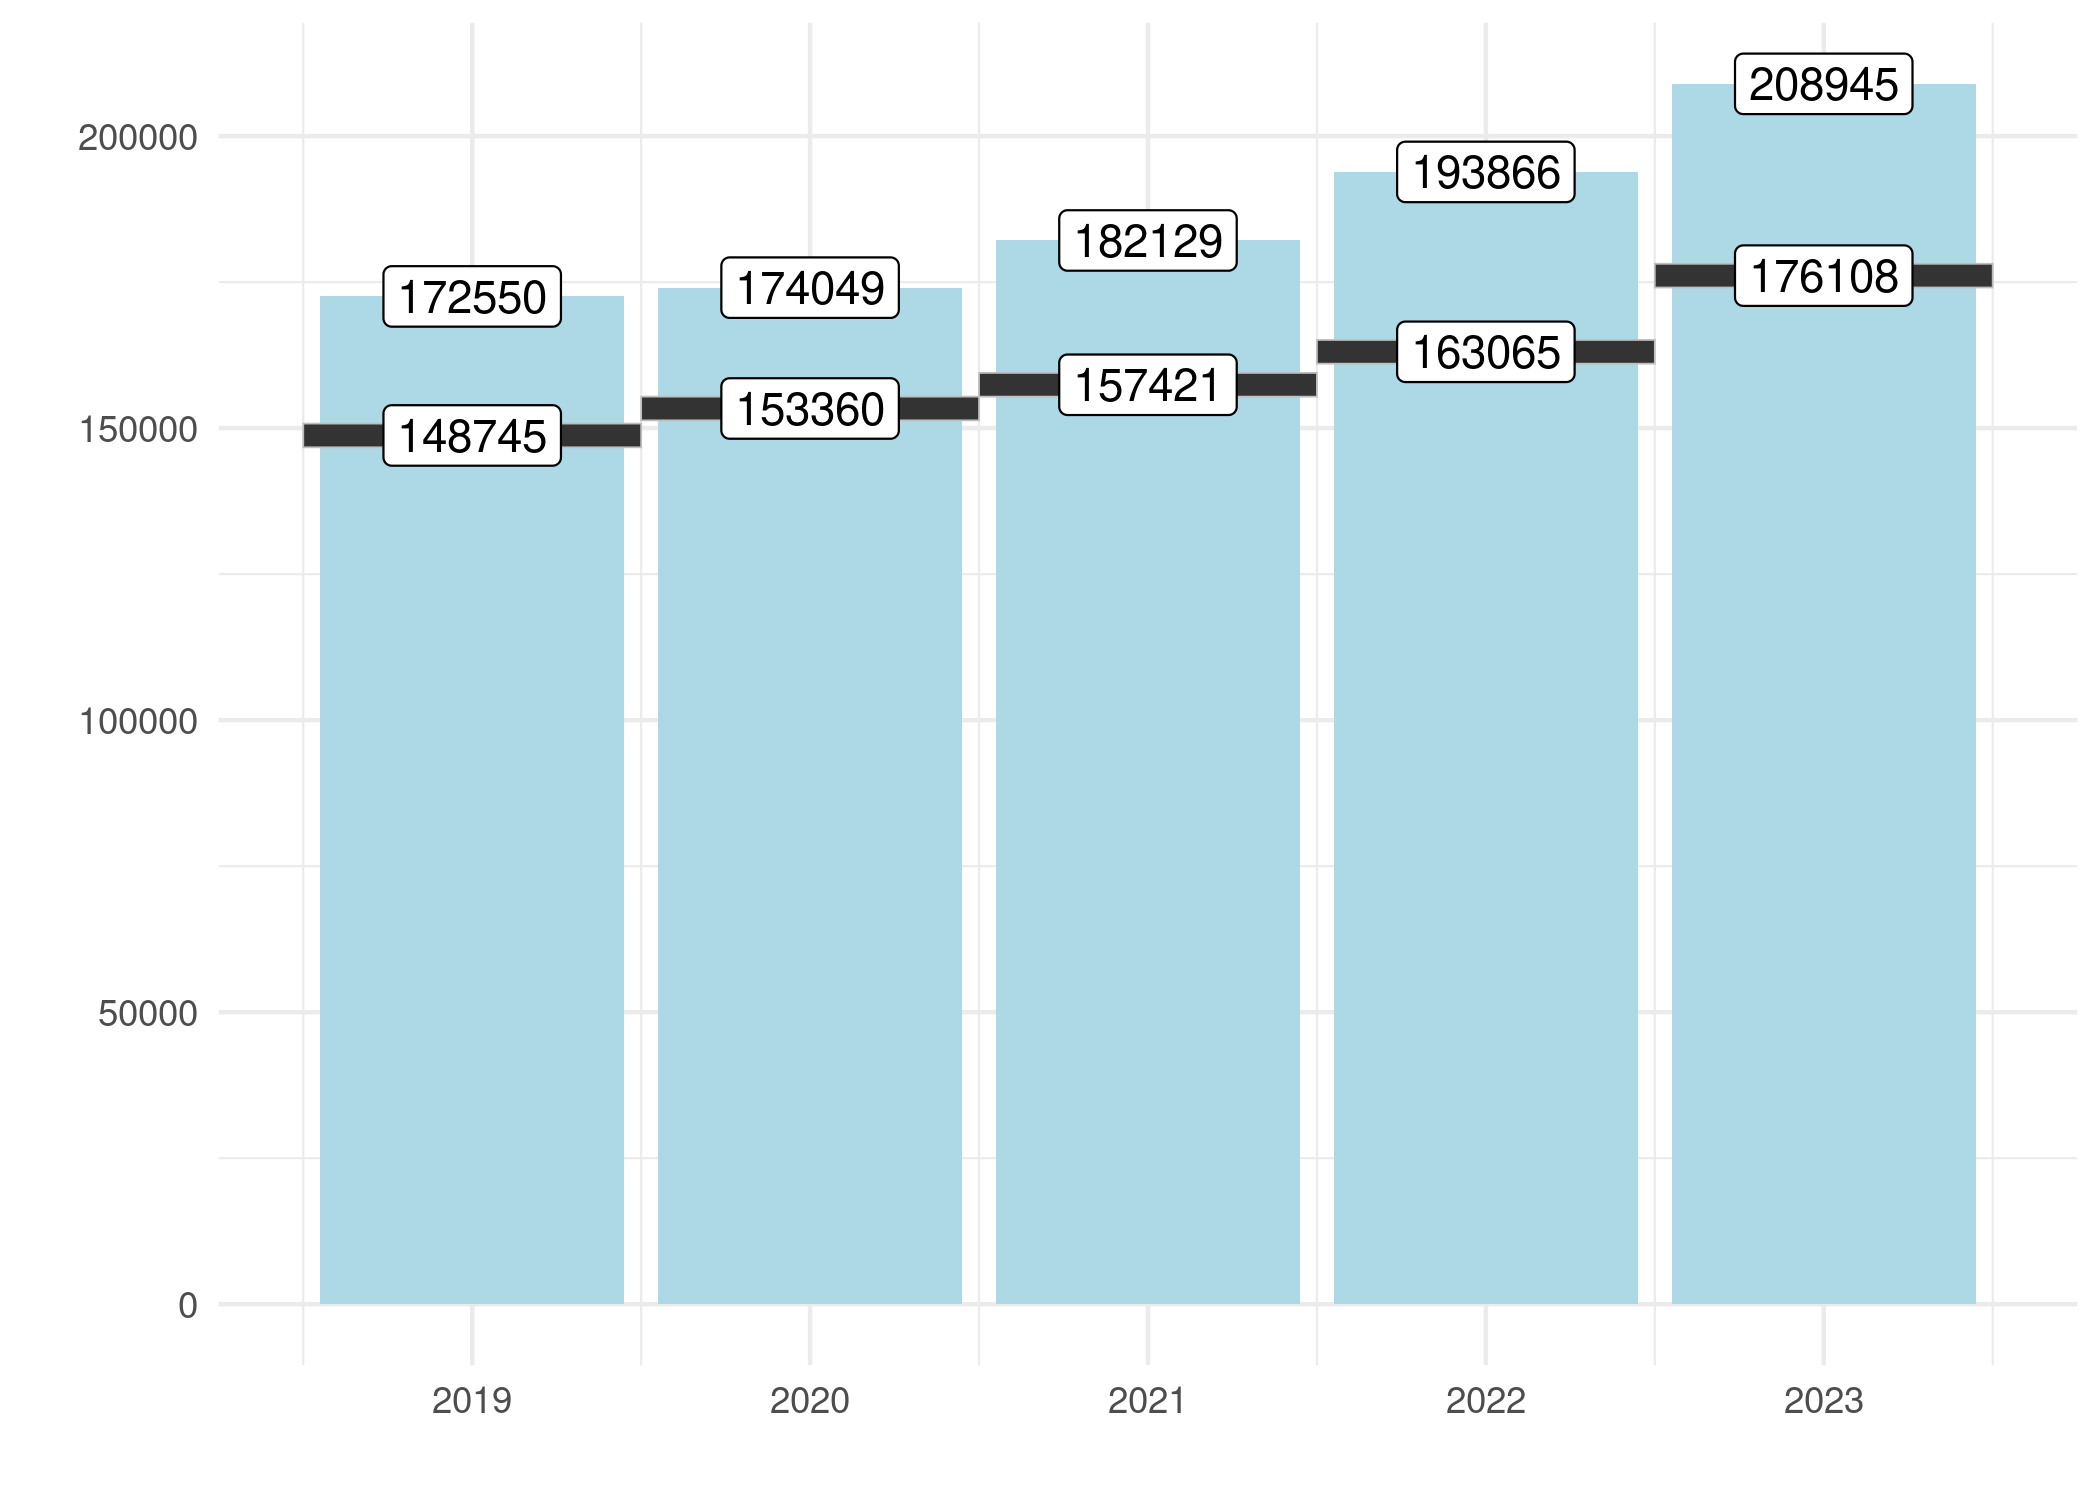
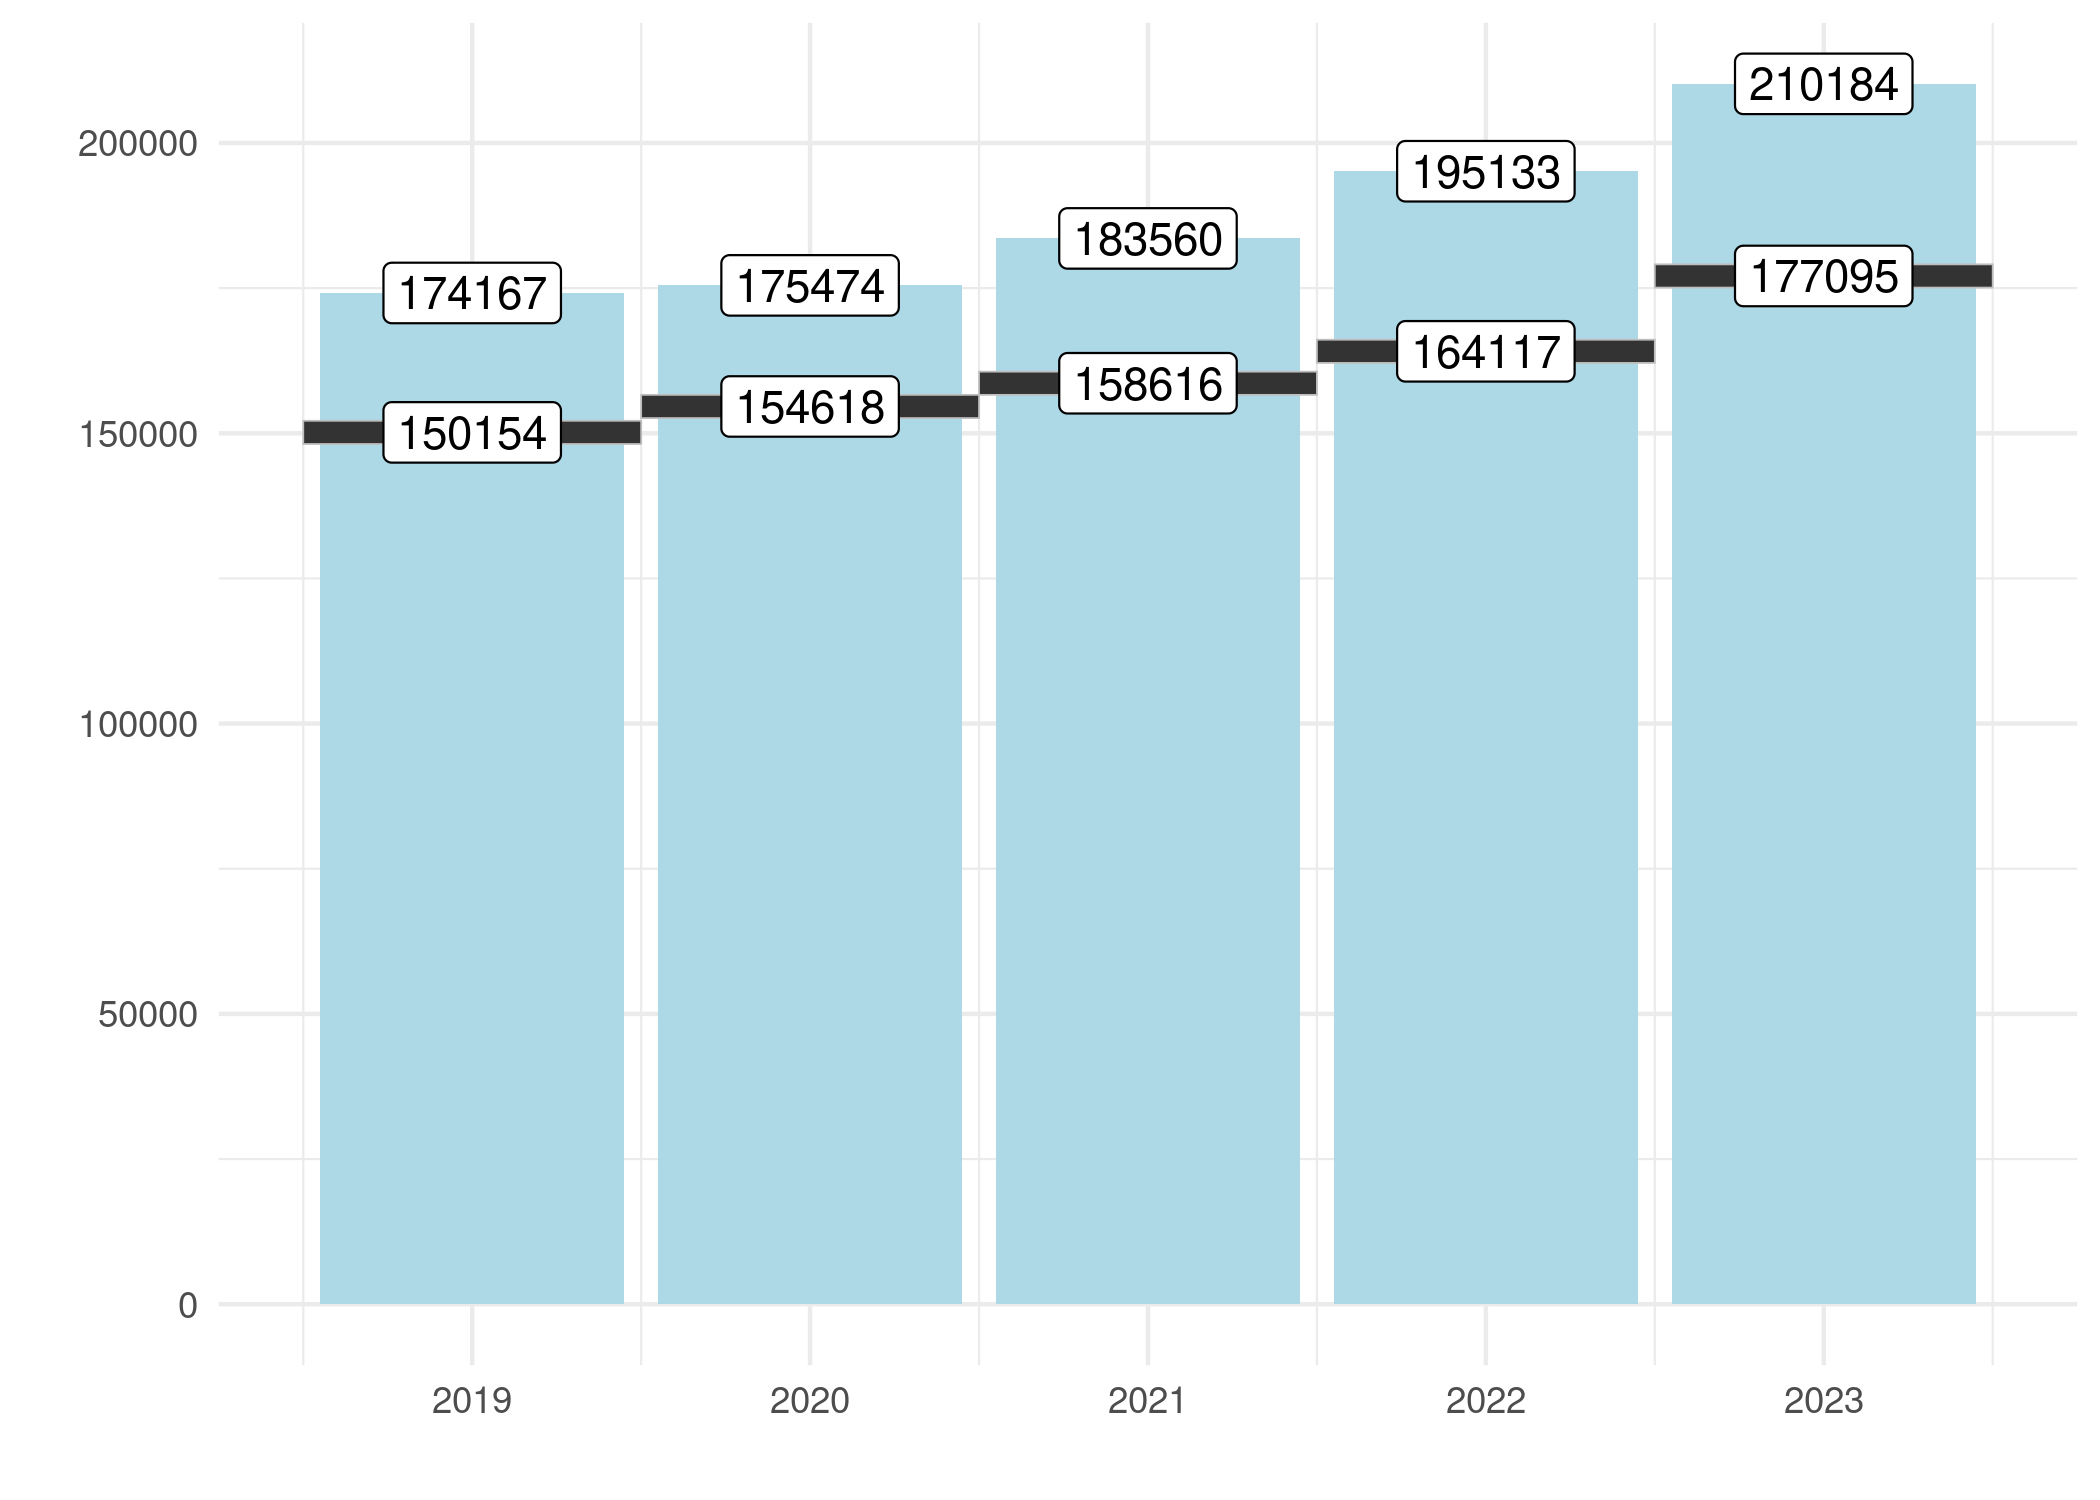
updated use_cases: tfp and interest_payments

diff --git a/use_cases/interest_payments.md b/use_cases/interest_payments.md
@@ -76,8 +76,8 @@ gc()
 ```
 
     ##             used   (Mb) gc trigger   (Mb)  max used   (Mb)
-    ## Ncells  11721260  626.0   22300035 1191.0  11725732  626.3
-    ## Vcells 359820989 2745.3  827983374 6317.1 821399852 6266.8
+    ## Ncells  11721475  626.0   22300751 1191.0  11725947  626.3
+    ## Vcells 359831650 2745.3  828008399 6317.3 821424838 6267.0
 
 ``` r
 # Rename variables
@@ -98,61 +98,61 @@ close as possible.
 ``` r
 # Only non-financial firms
 financials <- financials[okved_section != "K"]
-uniqueN(financials$inn) # 5003223
+uniqueN(financials$inn) # 5003225
 ```
 
-    ## [1] 5003223
+    ## [1] 5003225
 
 ``` r
 ## Only firms filing statements or where we could reconstruct
 ## it from previous year data
 cbr_sample <- financials[filed == 1 | imputed == 1]
-uniqueN(cbr_sample$inn) # 3236864
+uniqueN(cbr_sample$inn) # 2996612
 ```
 
-    ## [1] 3236864
+    ## [1] 2996612
 
 ``` r
 ## Remove firms where at least one of variables is missing
 cbr_sample <- cbr_sample[!is.na(revenue) & !is.na(costofgoodssold) & !is.na(salesprofit) & !is.na(grossprofit) ]
-uniqueN(cbr_sample$inn) # 2268104
+uniqueN(cbr_sample$inn) # 2255328
 ```
 
-    ## [1] 2268104
+    ## [1] 2255328
 
 ``` r
 ## Remove firms with zero revenue or cost of goods sold
 cbr_sample <- cbr_sample[revenue != 0 & costofgoodssold != 0]
-uniqueN(cbr_sample$inn) # 2177369
+uniqueN(cbr_sample$inn) # 2174904
 ```
 
-    ## [1] 2177369
+    ## [1] 2174904
 
 ``` r
 ## Remove firms where assets do not match liablities and equity
 cbr_sample <- cbr_sample[ assets == liabilities_equity ]
-uniqueN(cbr_sample$inn) # 2153277
+uniqueN(cbr_sample$inn) # 2172787
 ```
 
-    ## [1] 2153277
+    ## [1] 2172787
 
 ``` r
 ## Remove firms without interest payments
 cbr_sample <- cbr_sample[interestpayable != 0 & !is.na(interestpayable)]
-uniqueN(cbr_sample$inn) # 370331
+uniqueN(cbr_sample$inn) # 372456
 ```
 
-    ## [1] 370331
+    ## [1] 372456
 
 ``` r
 ## Remove outlier firms in terms of interestpayable to costofgoodssold ratio
 cbr_sample[, interest_cost_ratio := interestpayable/costofgoodssold]
 trim_cutoffs <- quantile(cbr_sample$interest_cost_ratio, c(0.015, 0.985))
 cbr_sample <- cbr_sample[ interest_cost_ratio >= trim_cutoffs[1] & interest_cost_ratio <= trim_cutoffs[2]]
-uniqueN(cbr_sample$inn) # 362932
+uniqueN(cbr_sample$inn) # 365002
 ```
 
-    ## [1] 362932
+    ## [1] 365002
 
 We also create a variable indicating companies with any debt:
 

diff --git a/use_cases/tfp.md b/use_cases/tfp.md
@@ -88,8 +88,8 @@ gc()
 ```
 
     ##             used   (Mb) gc trigger   (Mb)   max used   (Mb)
-    ## Ncells  19005762 1015.1   41532831 2218.1   19009964 1015.3
-    ## Vcells 535850505 4088.3 1233347963 9409.7 1202530129 9174.6
+    ## Ncells  19005766 1015.1   41532608 2218.1   19009968 1015.3
+    ## Vcells 535851238 4088.3 1233349713 9409.8 1202531848 9174.6
 
 ``` r
 # Rename variables
@@ -111,18 +111,18 @@ close as possible.
 ## Only eligible firms filing statements or where we could reconstruct
 ## it from previous year data
 financials <- financials[eligible == 1 & (filed == 1 | imputed == 1)]
-uniqueN(financials$inn) # 3789880
+uniqueN(financials$inn) # 3733322
 ```
 
-    ## [1] 3789880
+    ## [1] 3733322
 
 ``` r
 ## Only firms in manufacturing
 financials <- financials[okved_section == "C"]
-uniqueN(financials$inn) # 329079
+uniqueN(financials$inn) # 326858
 ```
 
-    ## [1] 329079
+    ## [1] 326858
 
 # Deflation
 
@@ -193,29 +193,29 @@ financials <- financials[year >= 2012 & year <= 2018]
 
 ## Remove firms where at least one of variables is missing or is negative
 financials <- financials[ revenue > 0 & materials > 0 & capital > 0 & labour > 0 & investment > 0]
-uniqueN(financials$inn) # 31850
+uniqueN(financials$inn) # 31841
 ```
 
-    ## [1] 31850
+    ## [1] 31841
 
 ``` r
 ## Remove firms with zero or negative value added
 financials[, va := revenue - materials]
 financials <- financials[ va > 0]
-uniqueN(financials$inn) # 28647
+uniqueN(financials$inn) # 28640
 ```
 
-    ## [1] 28647
+    ## [1] 28640
 
 ``` r
 ## Remove firms with gaps in filing
 financials[, obs_per_firm := .N, by = "inn"]
 financials[, obs_per_firm_expected := max(year) - min(year) + 1, by = c("inn") ]
 financials <- financials[obs_per_firm_expected == obs_per_firm]
-uniqueN(financials$inn) # 24330
+uniqueN(financials$inn) # 24323
 ```
 
-    ## [1] 24330
+    ## [1] 24323
 
 ``` r
 ## Only firms active for more than 1 year
